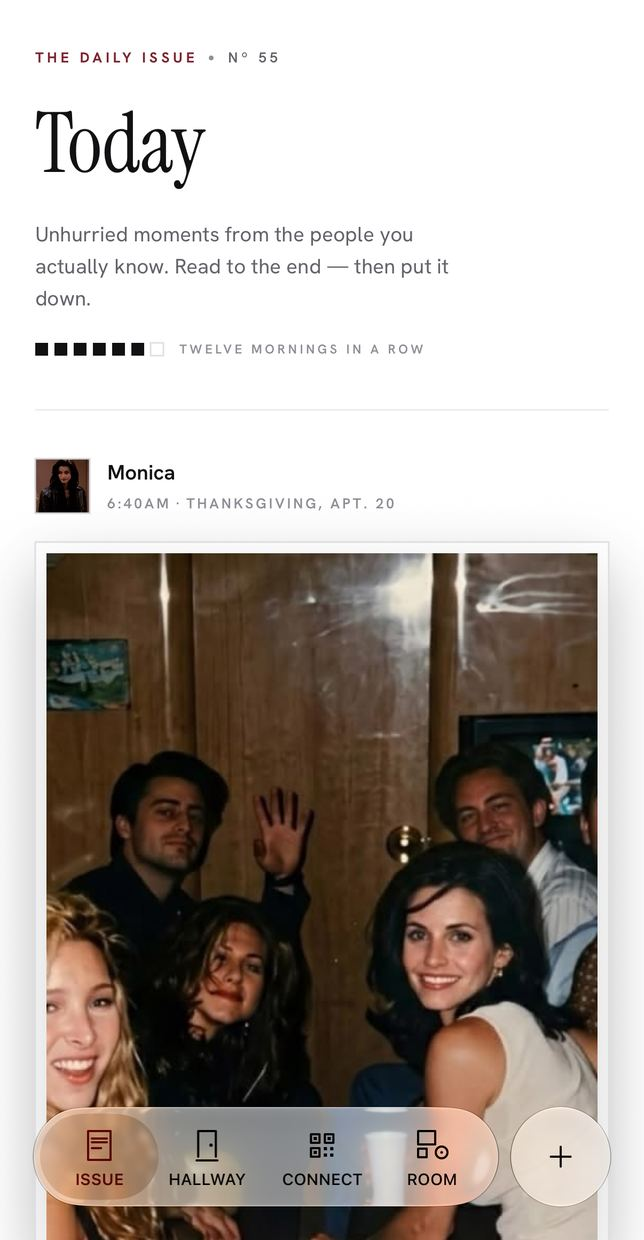
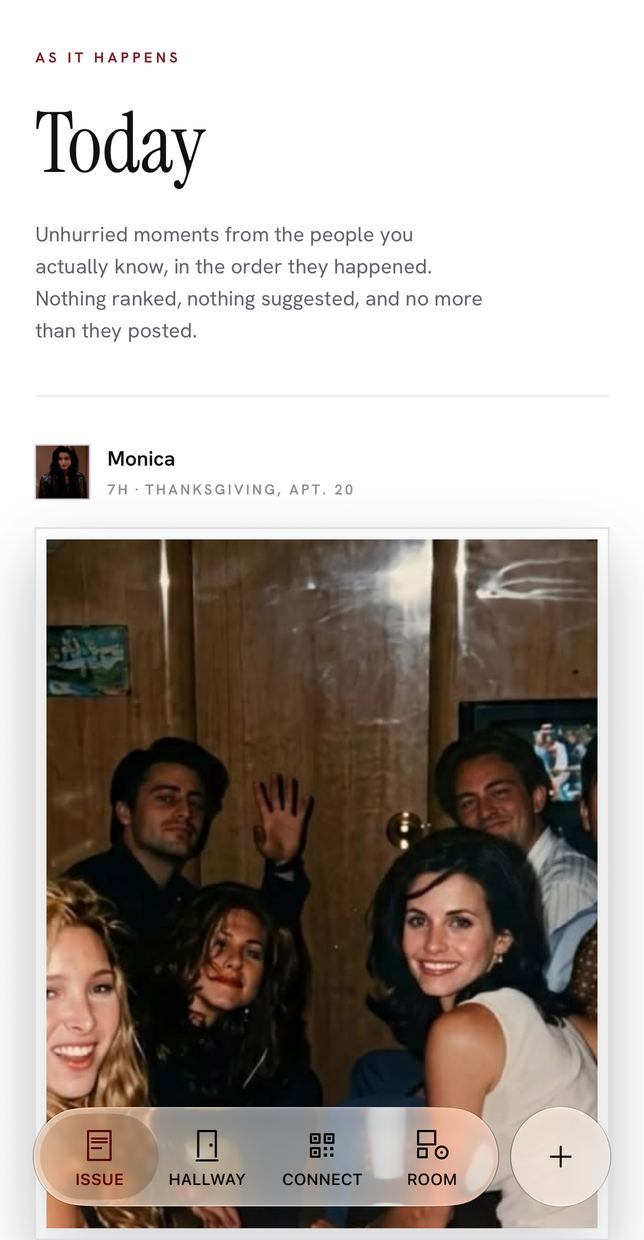
Say what the product now does: it arrives now, and it ends
The feed section was selling the schedule — your friends once a day,
delivered at seven, then it stops. It now sells what replaced it: your
people post and it is there, in the order it happened, nothing ranked,
and then it ends because they ran out of things to say rather than
because a clock closed the edition.

The note under it carries the distinction the whole decision rests on:
posts arrive instantly, notices do not. The hero drops "daily" from the
brand line, the banned list widens from streaks you can lose to streaks
of any kind, and the feed screenshot is re-shot from the rebuilt app —
no edition number, no streak squares, relative timestamps.

diff --git a/src/app/page.tsx b/src/app/page.tsx
@@ -77,7 +77,7 @@ const BANNED = [
   "The pull-to-refresh slot machine",
   "Like, follower and view counts",
   "Leaderboards",
-  "Streaks you can lose",
+  "Streaks, of any kind",
   "Growth nudges",
   "Guilt pings",
   "Ads, ever",
@@ -120,7 +120,7 @@ export default function Home() {
           </Rise>
           <Rise index={3}>
             <p className="mt-10 max-w-[17ch] font-serif text-[clamp(2rem,4.6vw,3.25rem)] italic leading-[1.22] text-ink2">
-              A daily paper of the people you actually know.
+              A paper of the people you actually know.
             </p>
           </Rise>
           <Rise index={4}>
@@ -142,11 +142,11 @@ export default function Home() {
       </section>
 
       <TabSection
-        kicker="The daily issue"
-        title={<>Your friends, once a day. Then it stops.</>}
-        body="Everything your friends posted arrives as one issue, in the order it actually happened. Nothing ranked, nothing recommended, and nothing more when you reach the end. A five-minute read, and then you put it down."
-        note="Delivered at seven. One nudge, never after six."
-        screen={<Shot name="issue" alt="The daily issue, open on a phone" />}
+        kicker="The feed"
+        title={<>It arrives now. And it still ends.</>}
+        body="Your people post, and it is there — not tomorrow morning. In the order it happened, nothing ranked, nothing recommended. And then it ends, because they ran out of things to say and not because a clock closed the edition."
+        note="Posts arrive instantly. Notices don’t — one a day, never after six."
+        screen={<Shot name="issue" alt="The feed, open on a phone" />}
       />
 
       <TabSection

diff --git a/src/components/shot.tsx b/src/components/shot.tsx
@@ -3,7 +3,7 @@
  * markup reads plainly, which means a browser will happily keep serving the
  * previous capture from cache — this is what makes it fetch the new one.
  */
-const CAPTURE = "5";
+const CAPTURE = "6";
 
 /**
  * A screen, as it actually runs. Captured from the app in the simulator once
